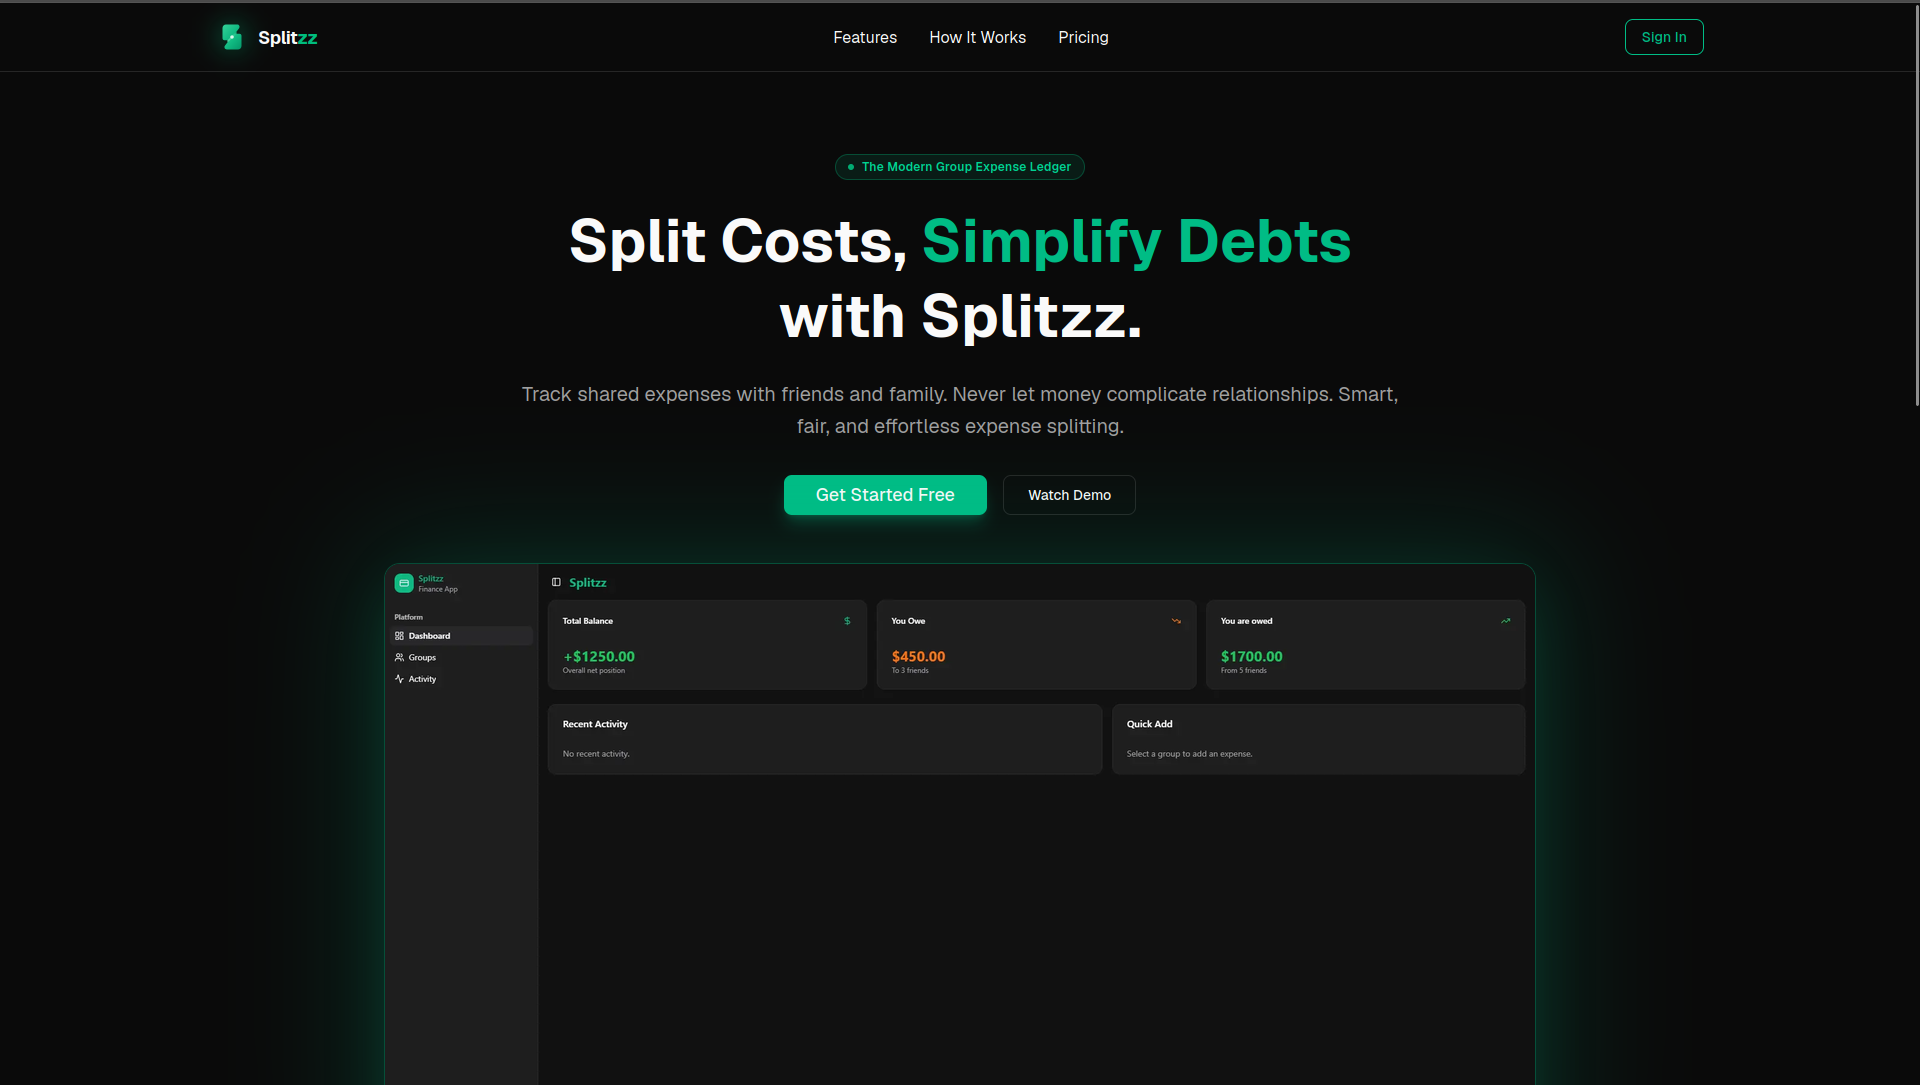
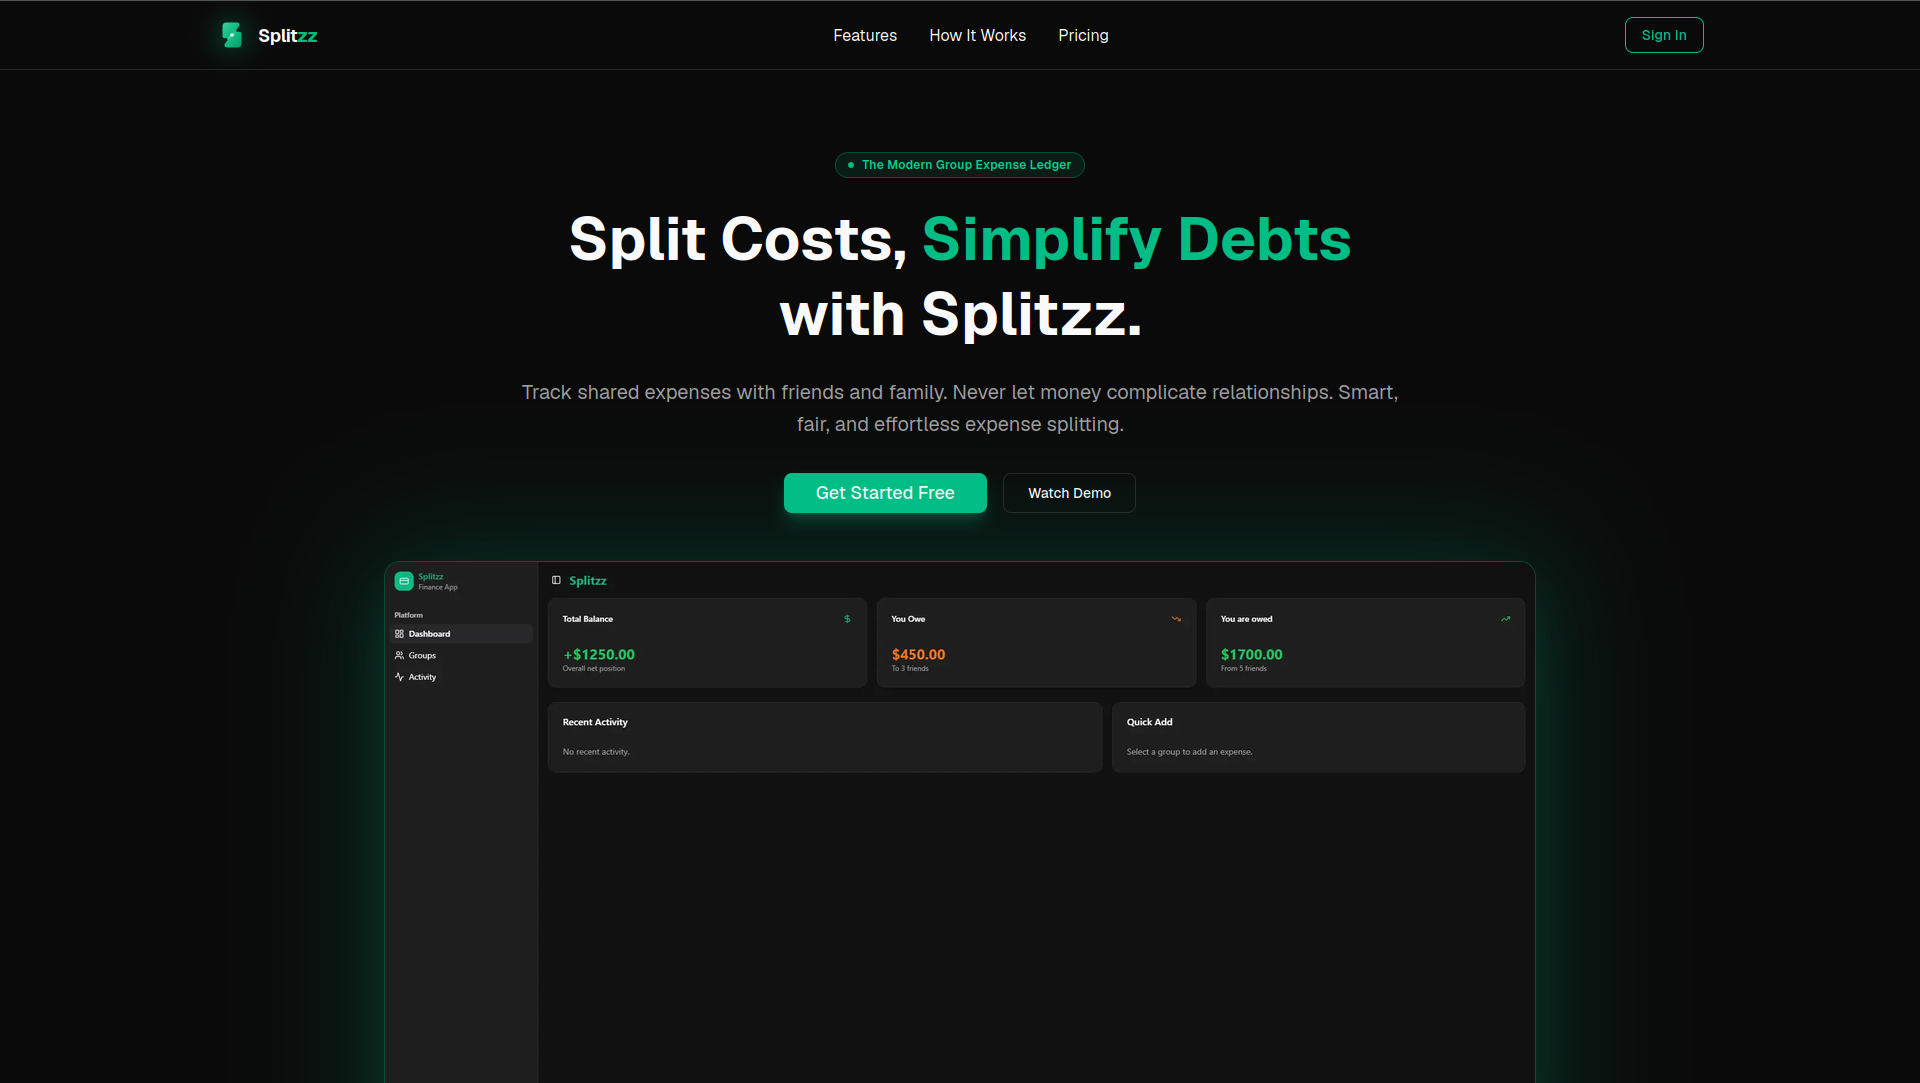
docs: move navigation links above landing image and update preview screenshot

diff --git a/README.md b/README.md
@@ -14,14 +14,13 @@ Splitzz is a modern, full-stack expense sharing application built for roommates,
 [![Tests](https://img.shields.io/badge/Jest-151%20passed-brightgreen?logo=jest)](https://jestjs.io/)
 
 <br />
+
+[Features](#-feature-showcase) • [Tech Stack](#-tech-stack) • [Database Architecture](#-database-architecture) • [Getting Started](#-getting-started) • [API Documentation](#-api-documentation) • [Testing](#-testing)
+
+<br />
 <br />
 
 <img src="public/images/landing-page.png" alt="Splitzz Landing Page" width="100%" />
-
-<br />
-<br />
-
-[Features](#-feature-showcase) • [Tech Stack](#-tech-stack) • [Database Architecture](#-database-architecture) • [Getting Started](#-getting-started) • [API Documentation](#-api-documentation) • [Testing](#-testing)
 
 </div>
 
